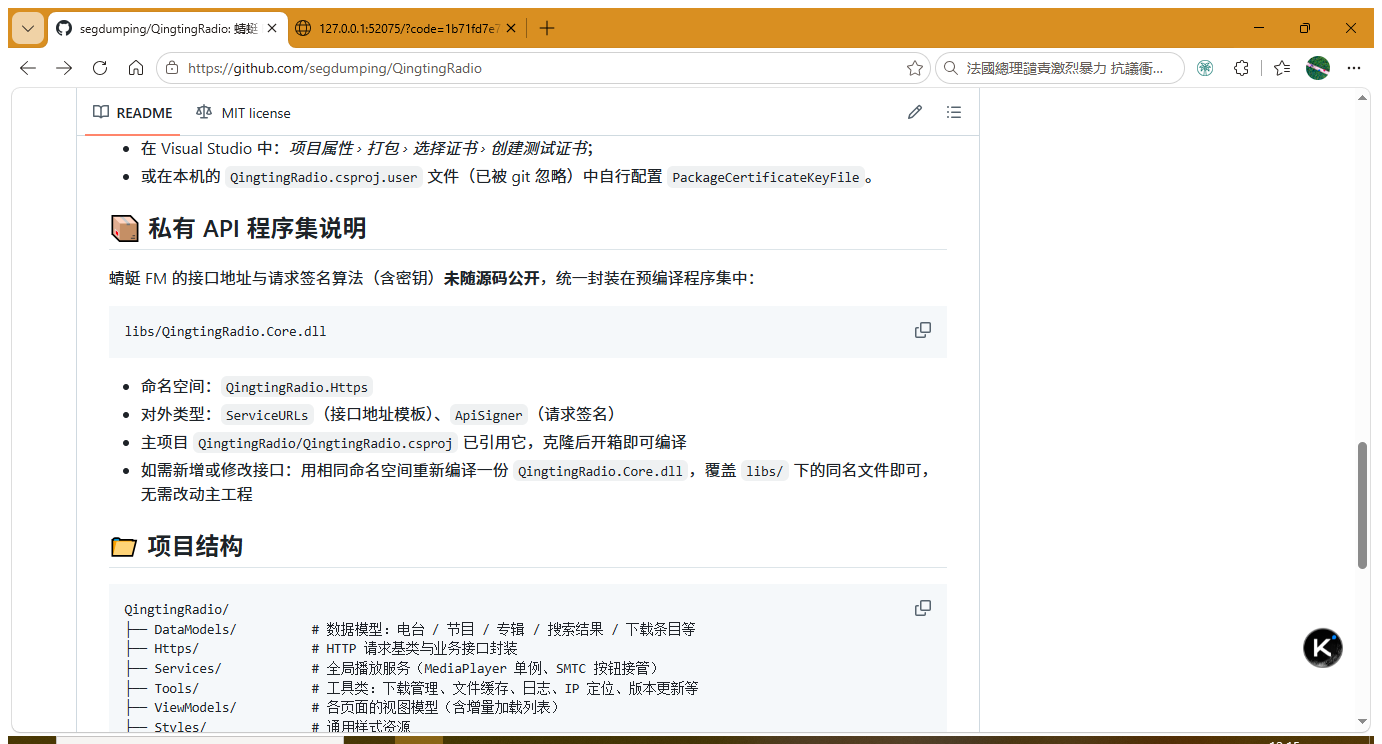
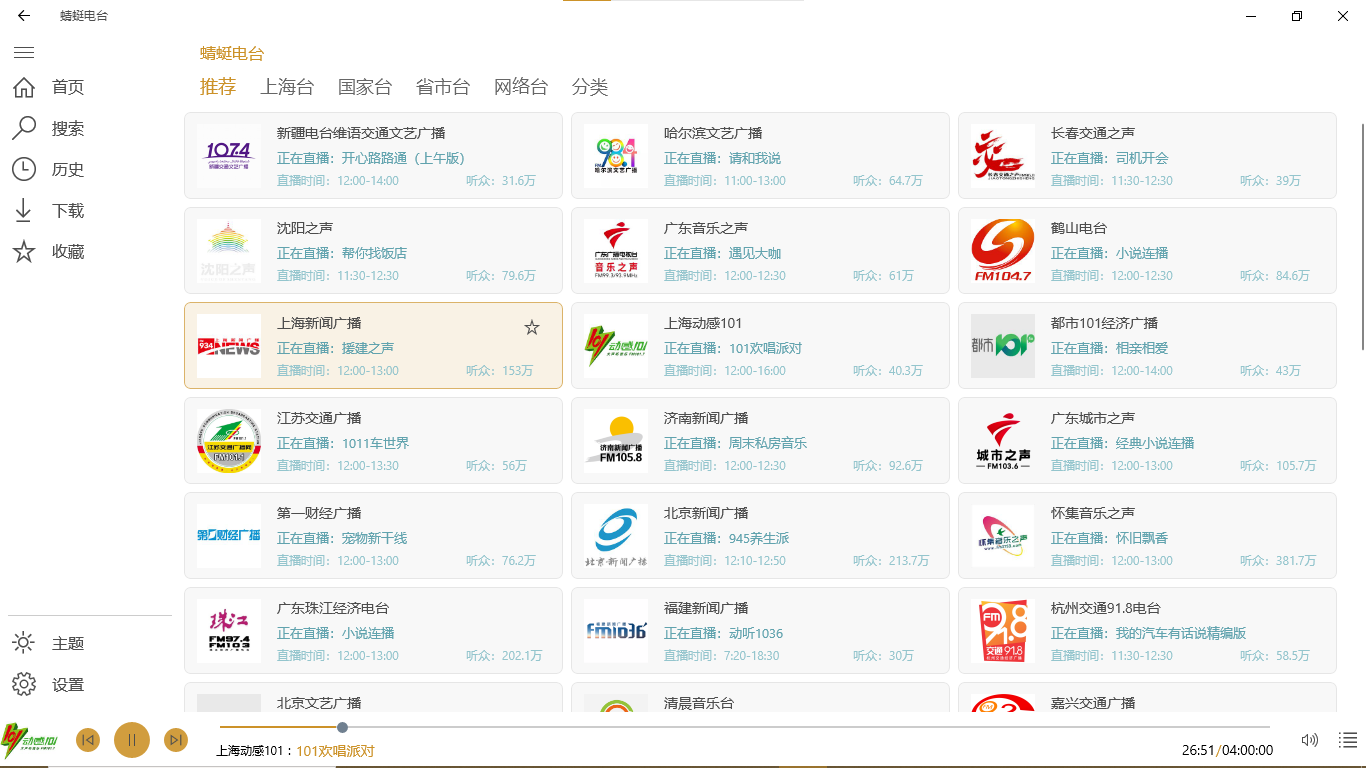
Add app screenshots to README

diff --git a/README.md b/README.md
@@ -18,6 +18,16 @@
 - 🌗 **主题自动切换**：按设定时段在深浅主题间定时切换
 - 🔈 **系统集成**：SMTC 系统媒体控制（锁屏 / 媒体浮窗）与后台播放
 
+## 📷 界面预览
+
+| 首页 · 推荐 | 首页 · 深色主题 |
+| :---: | :---: |
+| ![首页](docs/screenshots/home.png) | ![深色主题](docs/screenshots/home-dark.png) |
+| **搜索** | **收藏** |
+| ![搜索](docs/screenshots/search.png) | ![收藏](docs/screenshots/favorites.png) |
+| **收听历史** | **下载** |
+| ![历史](docs/screenshots/history.png) | ![下载](docs/screenshots/downloads.png) |
+
 ## 🛠 环境要求
 
 | 项目 | 要求 |
